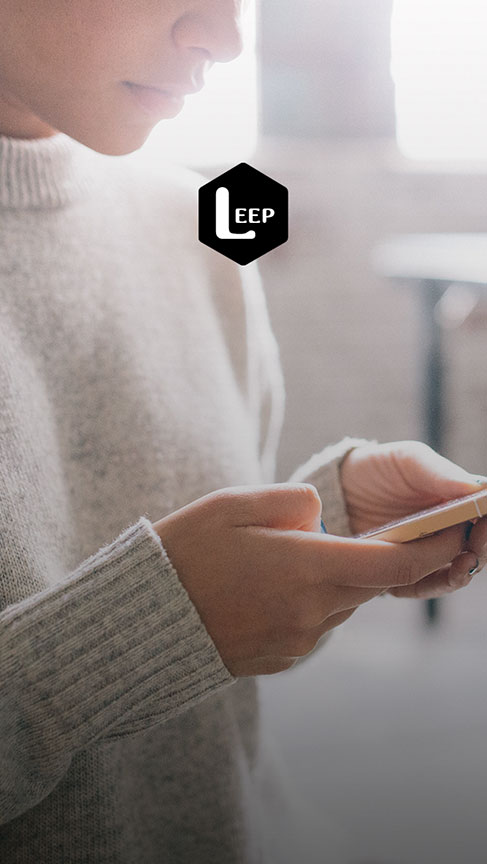
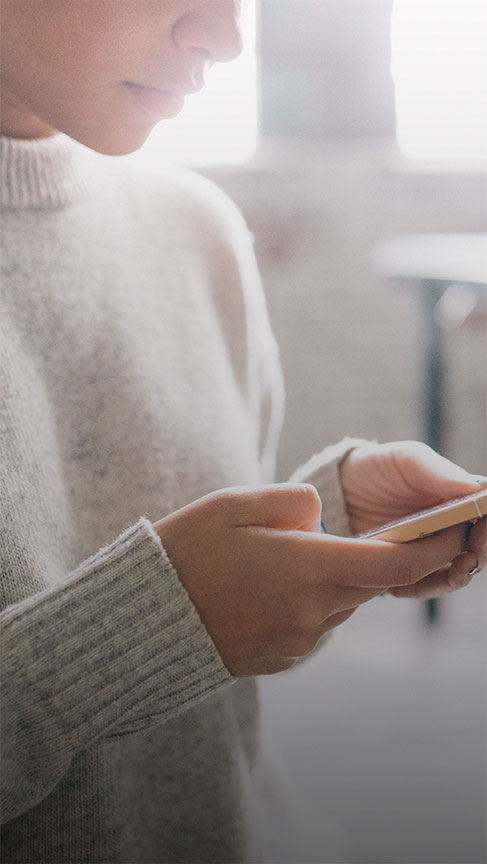
Updated background images . Added some basic settings options

Changed region(s): [[0.4004, 0.1875, 0.616, 0.3125]]

diff --git a/www/partials/settings.html b/www/partials/settings.html
@@ -4,21 +4,24 @@
   </ion-nav-buttons>
   <ion-content class="has-header">
    	<div class="settings-wrap">
-   		<div class="list card">
-   			<a href="" ng-click="goTo(/app/test)">Discovery Preferences</a>
-   		</div>
+   		<form ng-submit="saveSettings(settings)">
+	   		<ul class="list">
+	   			<div class="item item-divider">Profile Visibility</div>
+	   			<ion-toggle ng-model="settings.profileHidden" toggle-class="toggle-assertive" >Hidden Profile</ion-toggle>
+	   			{{settings.profile}}
+	   			<div class="item item-divider">Search Radius</div>
 
-   		<!--<ul class="list">
-		  <li class="item item-toggle">
-		     Notifications
-		     <label class="toggle toggle-balanced">
-		       <input type="checkbox">
-		       <div class="track">
-		         <div class="handle"></div>
-		       </div>
-		     </label>
-		  </li>		  
-		</ul>-->
+	   			<div class="item range range-positive">
+			        <i class="icon ion-ios-location"></i>
+			        <input type="range" name="volume" min="0" max="100" value="{{settings.rangeValue}}" ng-model="settings.rangeValue">
+			    	<span class="distance">Within {{settings.rangeValue}} Miles</span>
+			    </div>
+
+			    <button class="button button-balanced settings-button">
+				  Save changes
+				</button>
+	   		</ul>
+	   	</form>
    	</div>
   </ion-content>
 </ion-view>

diff --git a/www/js/app.js b/www/js/app.js
@@ -109,7 +109,7 @@ sideMenuApp.config(function($stateProvider, $urlRouterProvider) {
         },
         getUserInit: ['getUser', 'user','getCoordsInit','addNewUser', function(getUser, user, getCoordsInit, addNewUser) {
           var currentUser = user.current;
-          var id = user.getCurrent().then(function(currentUser){                    
+          var test = user.getCurrent().then(function(currentUser){                    
             getUser.getUserData(currentUser.user_id)
             .$promise
             .then(function(response){
@@ -130,10 +130,13 @@ sideMenuApp.config(function($stateProvider, $urlRouterProvider) {
                 userData.loc = geoJSON;
                 addNewUser.addUser(userData);
               } 
+              return data;
             });
+           
           });    
-          //console.log(id);
-          return id;
+          if(!test.values){
+              return getUser.getUserData(currentUser.user_id);
+          }
           
         }],
         getNewMatchesInit: ['$state', 'getNewMatches','getUser','user','getUserInit',function($state, getNewMatches, getUser, user, getUserInit){

diff --git a/www/js/controllers/cardsController.js b/www/js/controllers/cardsController.js
@@ -8,7 +8,8 @@ angular.module('sideMenuApp.controllers')
   *
   **/  
   $scope.cardObj = getNewMatchesInit;
-  $scope.userData = JSON.parse(angular.toJson(getUserInit));  
+  console.log(getUserInit);
+  $scope.userData = getUserInit;  
   var cardTypes = $scope.cardObj.data;  
 
   /**
@@ -17,11 +18,11 @@ angular.module('sideMenuApp.controllers')
   * and requery the user if so.
   *
   **/
-  if($scope.userData.data.id){
+  if(!$scope.userData.usernmae){
     var currentUser = user.current;
        user.getCurrent().then(function(currentUser){                    
-       var user = getUser.getUserData(currentUser.user_id);
-       $scope.userData = JSON.parse(angular.toJson(user));
+       $scope.userData = getUser.getUserData(currentUser.user_id);
+      
     });     
   }
       

diff --git a/www/index.html b/www/index.html
@@ -15,6 +15,7 @@
     <!--<link href="/css/preview-frame.css" rel="stylesheet">-->
     <link rel="stylesheet" href="https://maxcdn.bootstrapcdn.com/bootstrap/3.2.0/css/bootstrap.min.css">
     <link href="lib/ionic/css/ionic.css" rel="stylesheet">
+    <link rel="stylesheet" type="text/css" href="http://code.ionicframework.com/ionicons/2.0.1/css/ionicons.min.css">
     
     <link href="css/styles.css" rel="stylesheet">   
     <link href="lib/ionic-ion-tinder-cards/ionic.tdcards.css" rel="stylesheet">  

diff --git a/www/js/controllers/settingsController.js b/www/js/controllers/settingsController.js
@@ -6,4 +6,15 @@ angular.module('sideMenuApp.controllers').controller('settingsController', funct
         $ionicSideMenuDelegate.toggleLeft();
         $state.go(page);           
     };
+
+    $scope.rangeValue = 0;
+    
+    $scope.$watch('settings.rangeValue',function(val,old){
+       $scope.rangeValue = parseInt(val); 
+        
+    });
+
+    $scope.saveSettings = function(settings) {
+    	console.log(settings);
+    }
 });

diff --git a/www/partials/login.html b/www/partials/login.html
@@ -3,7 +3,7 @@
 
 		<div class="top-content row">
 		  <div class="col col-center">
-		    <!--<img ng-src="img/logo.png">-->
+		    <img ng-src="images/app-logo.png">
 		  </div>
 		</div>	
 			<div class="bottom-content row">    

diff --git a/www/css/styles.css b/www/css/styles.css
@@ -193,3 +193,7 @@ td-card img {
 	padding-left: 134px;
 	border: 0;
 }
+/*==========Setting page styles============*/
+.settings-button {
+	margin: 18px 
+}
